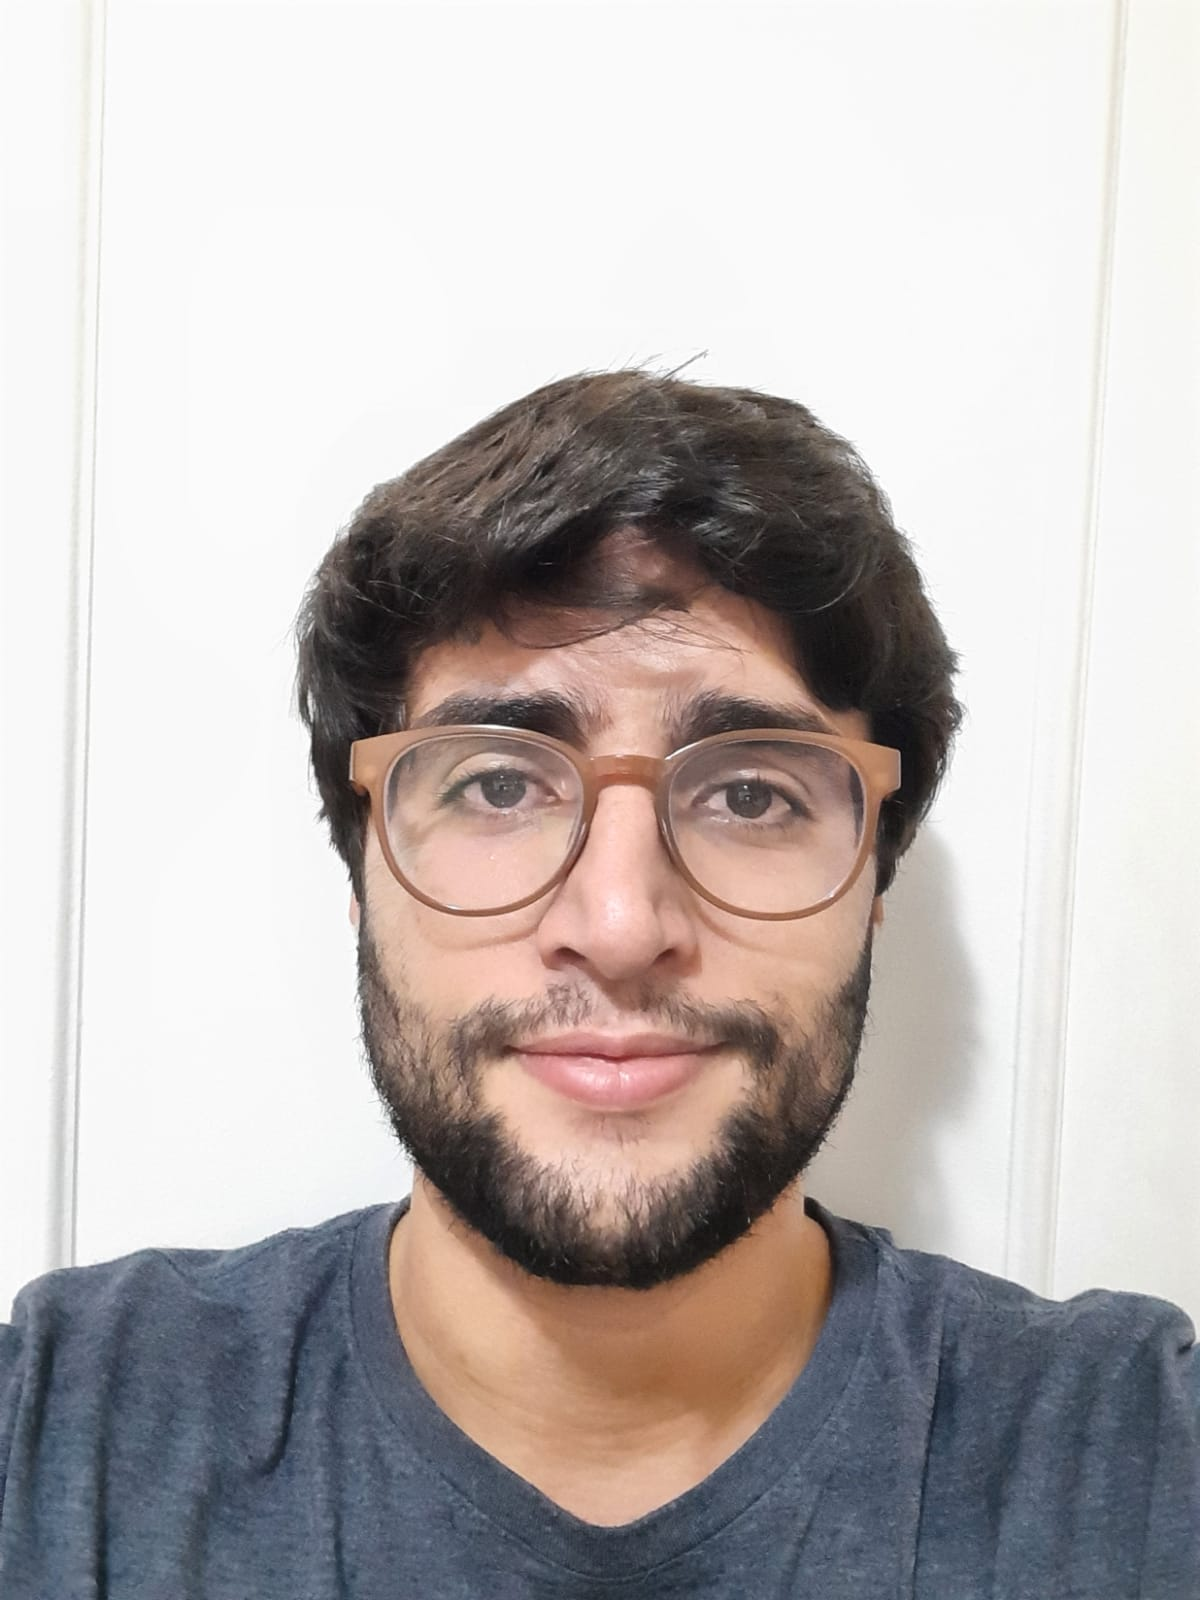
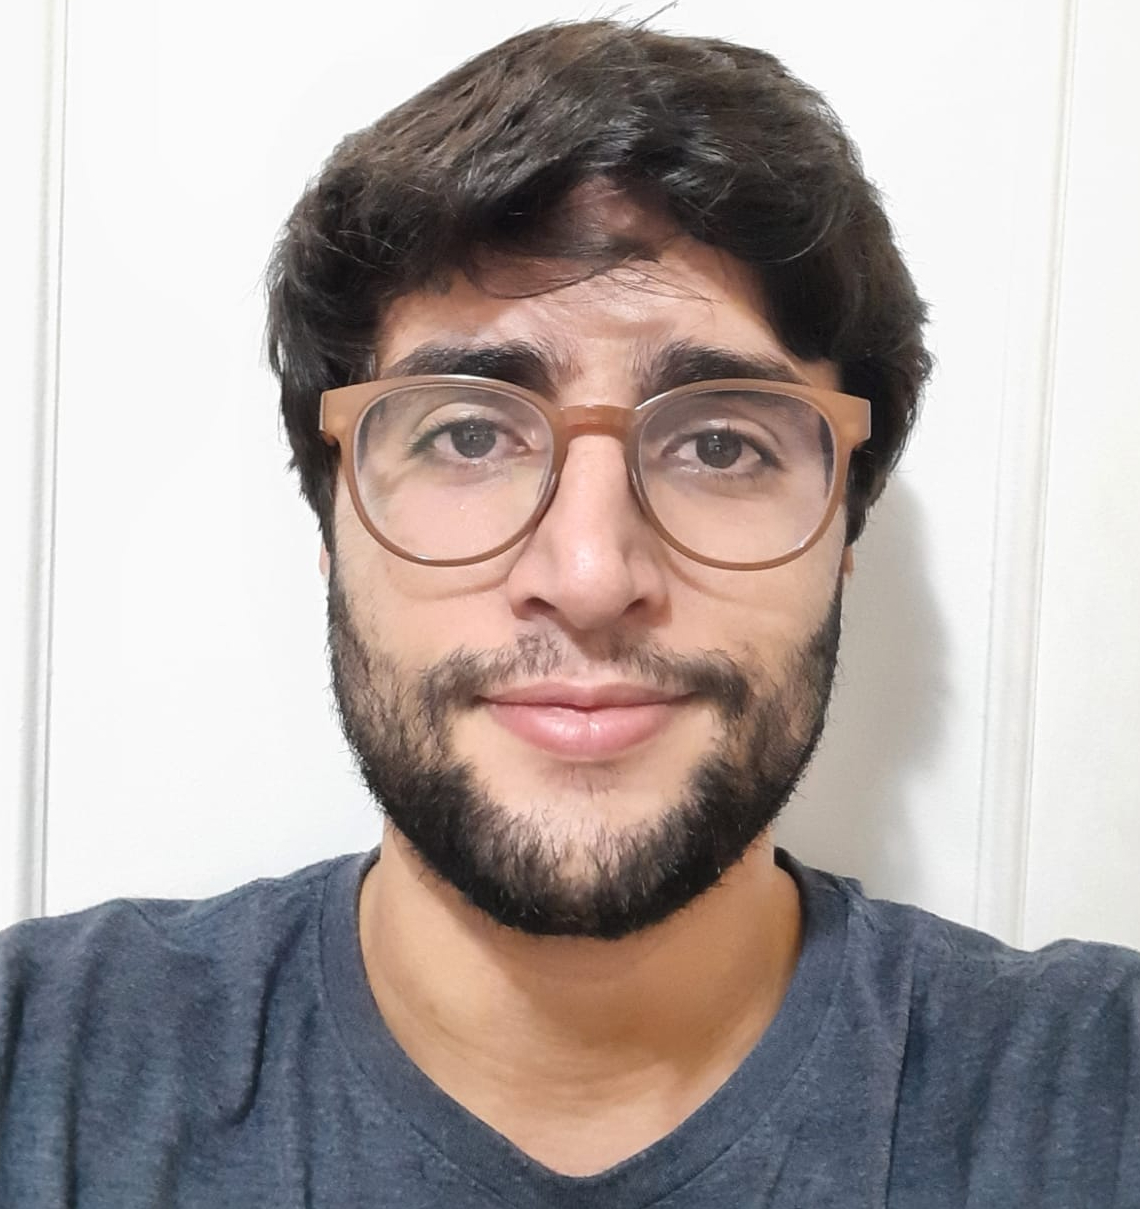
ajustei foto e mudei font do texto geral, tb anterei o indice

diff --git a/index.html b/index.html
@@ -8,27 +8,27 @@
     <body>
         <h1 id="titulo1">Protifólio Artur Senna de Souza e Silva</h1>
         <img id="fotoartur" src="artur-senna.jpeg" width="500px" alt="Artur sorrindo">
-        <p id="descricao" > Me chamo Artur, tenho 28 anos, sou <a id="realcando">brasileiro</a>, moro no <a id="realcando">Rio de Janeiro</a> e estou 
+        <p id="descricao" class="text" > Me chamo Artur, tenho 28 anos, sou <a id="realcando">brasileiro</a>, moro no <a id="realcando">Rio de Janeiro</a> e estou 
             <strong>estudando para me tornar desenvolvedor web</strong>. Formado em Ciências Biológicas e com mestrado 
             em <em>Bioquimica Médica</em> acabei me deparando com a programação para fazer análises de bioinformática. 
             Me apaixonei pela área e decidi trocar de carreira.</p>
-        <h4 id="habilidades">Habilidades:</h4>
-        <ul>
+        <h4 id="habilidades" class="text">Habilidades:</h4>
+        <ul class="text">
             <li class="listaHabilidades">Html</li>
             <li class="listaHabilidades">CSS</li>
             <li class="listaHabilidades">JavaScript</li>
             <li class="extra"><strong>Vontade de aprender</strong></li>
         </ul>
-        <a href="#fotoartur">Foto</a>
-        <a href="google.com" target="_blank" id="referencias">Referências</a>
+        <!-- <a href="#fotoartur">Foto</a> -->
+        <a href="www.google.com" target="_blank" id="referencias" class="icon iconereferencia text">Referências</a>
         <p>
             Índice:
         </p>
-        <ul>
-            <li><a href="#fotoartur">Foto</a></li>
-            <li><a href="#descricao">Sobre mim</a></li>
-            <li><a href="#habilidades">Habilidades</a></li>
-            <li><a href="referencias">Referências</a></li>
+        <ul class="text">
+            <li><a class="icon" href="#fotoartur">Foto</a></li>
+            <li><a class="icon" href="#descricao">Sobre mim</a></li>
+            <li><a class="icon" href="#habilidades">Habilidades</a></li>
+            <li><a class="icon" href="referencias">Referências</a></li>
         </ul>
     </body>
 </html>

diff --git a/style.css b/style.css
@@ -7,28 +7,49 @@ body {
 #titulo1 {
     font-family: 'Courier New', Courier, monospace;
 }
+
 #fotoartur {
     padding: 20px;
-    border-radius: 50%;
+    border-radius: 100%;
     width: 30%;
     /* align: center; */
 }
-#descricao {
-    font-family: Cambria, Cochin, Georgia, Times, 'Times New Roman', serif;
+
+.text {
+    font-family: -apple-system, BlinkMacSystemFont, 'Segoe UI', Roboto, Oxygen, Ubuntu, Cantarell, 'Open Sans', 'Helvetica Neue', sans-serif;
+    /* color: red; */
 }
+
+#descricao {
+    font-size: 20px;
+}
+
 #realcando {
     color: #053225;
     font-weight: bold;
 }
+
 #habilidades {
     padding: 0px;
 }
+
 ul {
     /* border: 550px; */
 }
+
 .listaHabilidades {
     font-size: 18px;
 }
+
 .extra {
     font-size: 20px;
+}
+
+.icon {
+    text-decoration: none;
+    color: #053225;
+}
+
+.iconereferencia {
+    color: rgb(188, 194, 189);
 }
